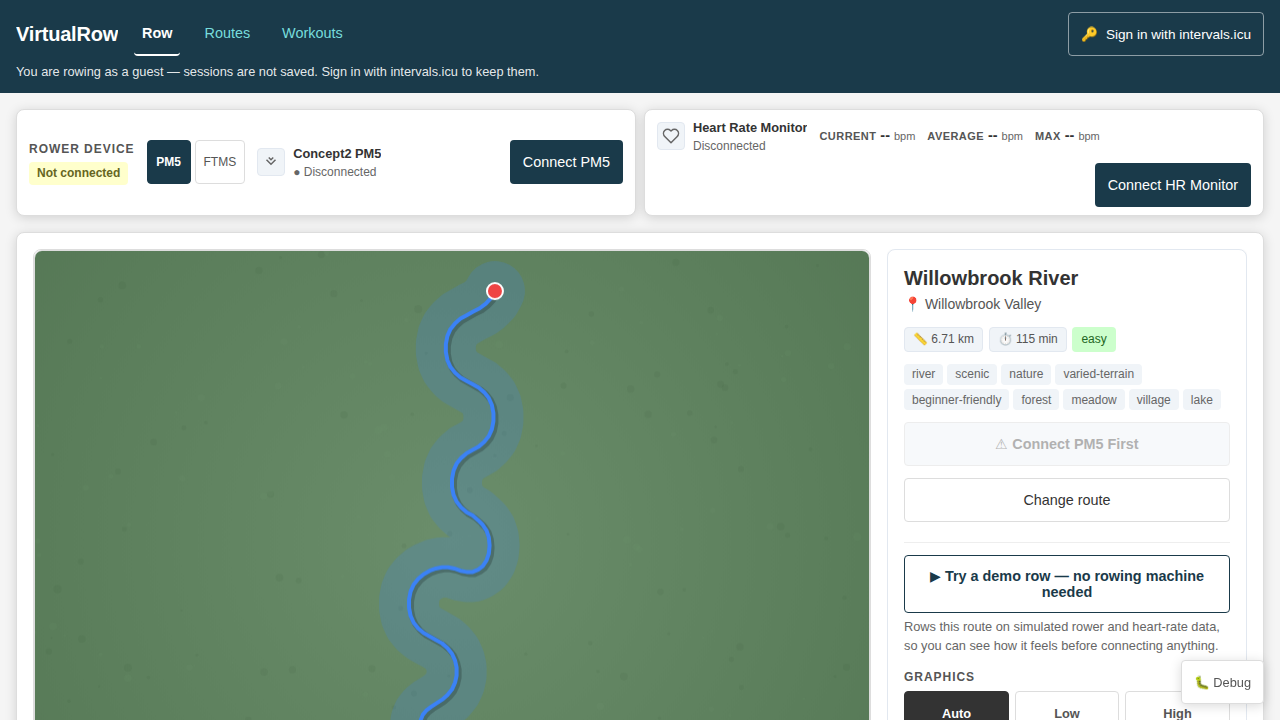
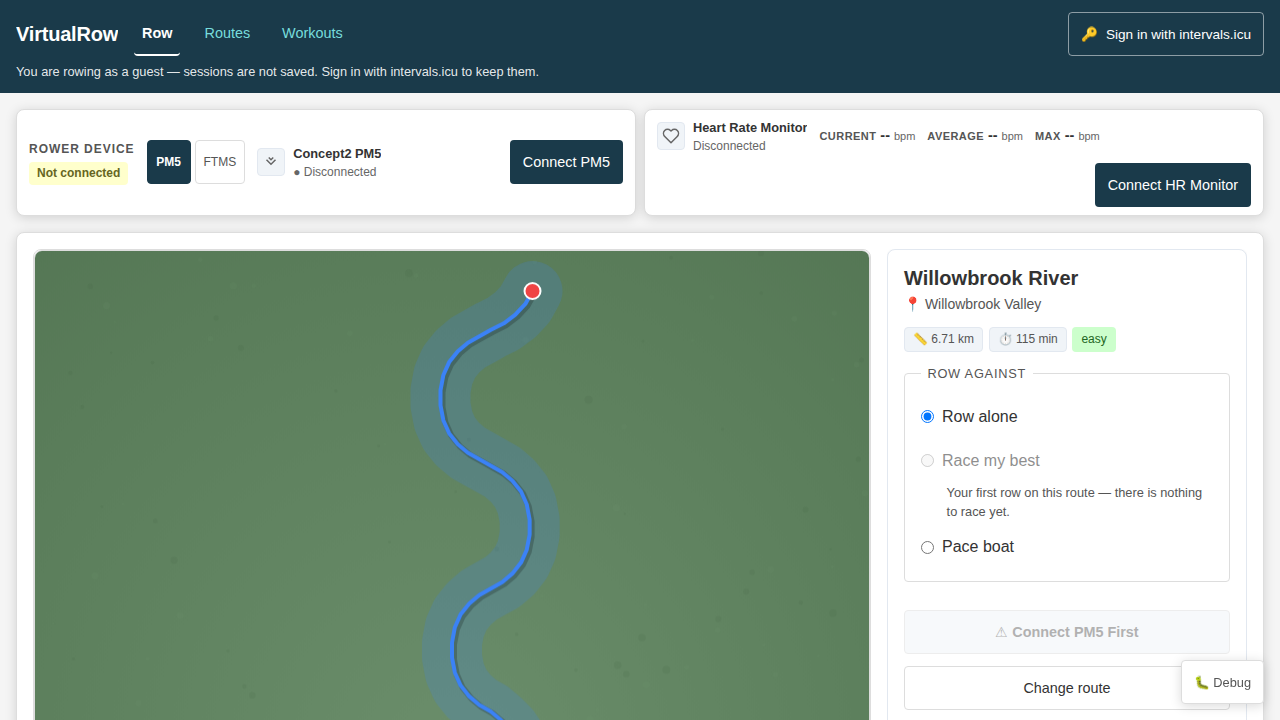
Remove the route tag chip strip from the main screen (#442) (#444)
* #442: remove the route tag chip strip from the main screen

The pre-workout main screen rendered `route.tags` as a strip of raw pill
chips — a mix of curated labels (`scenic`, `beginner-friendly`), scenery
hints (`meadow`, `forest`) and internal provenance flags (`rownative`,
`status:established`, `outline-only`) — between the meta-badges and the
ghost picker. Nothing on the strip was actionable and the meta-badges
above it already carried the distance, difficulty, ETA and provenance a
rower needs.

Deletes the `.route-tags` container in `App.tsx`, the two `.route-tags`
rules in `App.css`, and adds an appNavigation assertion so it does not
come back by accident. `WaterRoute.tags` itself is untouched: the search
filter (`routeService.ts:153`), the regional-theme inference in
`routeEnrichmentService.ts`, the rownative `status:*` extraction and the
`outline-only` provenance fallback all keep reading it.

Claude-Session: https://claude.ai/code/session_01HghtSUdJkVJp1pfMr2nGeq

* #442: refresh docs/screenshot-route-selection.png baseline

The route-selection docs baseline photographed the pre-workout screen
including the `.route-tags` chip strip removed in the previous commit;
the visual job's route-selection shot failed as expected. Re-recorded
via `npm run test:visual:update` in the same LIBGL_ALWAYS_SOFTWARE
Chromium the CI's visual job uses.

Claude-Session: https://claude.ai/code/session_01HghtSUdJkVJp1pfMr2nGeq

---------

Changed region(s): [[0.6875, 0.4889, 0.9688, 1.0], [0.2812, 0.3667, 0.4375, 1.0], [0.9062, 0.9778, 0.9375, 1.0]]

diff --git a/src/__tests__/appNavigation.test.tsx b/src/__tests__/appNavigation.test.tsx
@@ -263,6 +263,21 @@ describe('default route (issue #219, R6)', () => {
 
     expect(container.querySelector('.route-info-overlay h2')).toHaveTextContent('Willowbrook River');
   });
+
+  // #442: the pre-workout main screen used to render `route.tags` as a strip
+  // of raw pill chips (`scenic`, `meadow`, `rownative`, `status:established`,
+  // `outline-only`, …) between the meta-badges and the ghost picker. The
+  // strings were a mix of curated labels, scenery hints and internal
+  // provenance flags — noise without the same actionable content the
+  // meta-badges already carry — so the strip is gone, but the `WaterRoute.tags`
+  // field, the search filter, the scenery inference and the provenance
+  // fallback all keep reading it.
+  it('AC1 (#442): no chip strip of raw route tags appears on the main screen', () => {
+    const { container } = render(<App />);
+
+    expect(container.querySelector('.route-info-overlay h2')).toHaveTextContent('Willowbrook River');
+    expect(container.querySelector('.route-tags')).toBeNull();
+  });
 });
 
 /* ==========================================================================

diff --git a/src/App.css b/src/App.css
@@ -740,22 +740,6 @@ body {
   border-color: transparent;
 }
 
-.route-info-overlay .route-tags {
-  display: flex;
-  flex-wrap: wrap;
-  gap: var(--space-2xs);
-  pointer-events: none;
-}
-
-.route-info-overlay .route-tags .tag {
-  padding: 0.1rem var(--space-sm);
-  background: var(--color-bg-secondary);
-  border-radius: var(--radius-control);
-  font-size: 0.75rem;
-  color: var(--color-text-muted);
-  pointer-events: none;
-}
-
 /* ============================================================================
    ROUTES LIST — lives on the Routes screen (issue #219, R3)
    ============================================================================ */

diff --git a/src/App.tsx b/src/App.tsx
@@ -1244,14 +1244,6 @@ function App() {
                     })()}
                   </div>
 
-                  <div className="route-tags">
-                    {selectedRoute.tags.map((tag) => (
-                      <span key={tag} className="tag">
-                        {tag}
-                      </span>
-                    ))}
-                  </div>
-
                   {selectedRouteEnrichmentLoading && (
                     <p className="route-enrichment-status">Loading route data…</p>
                   )}
